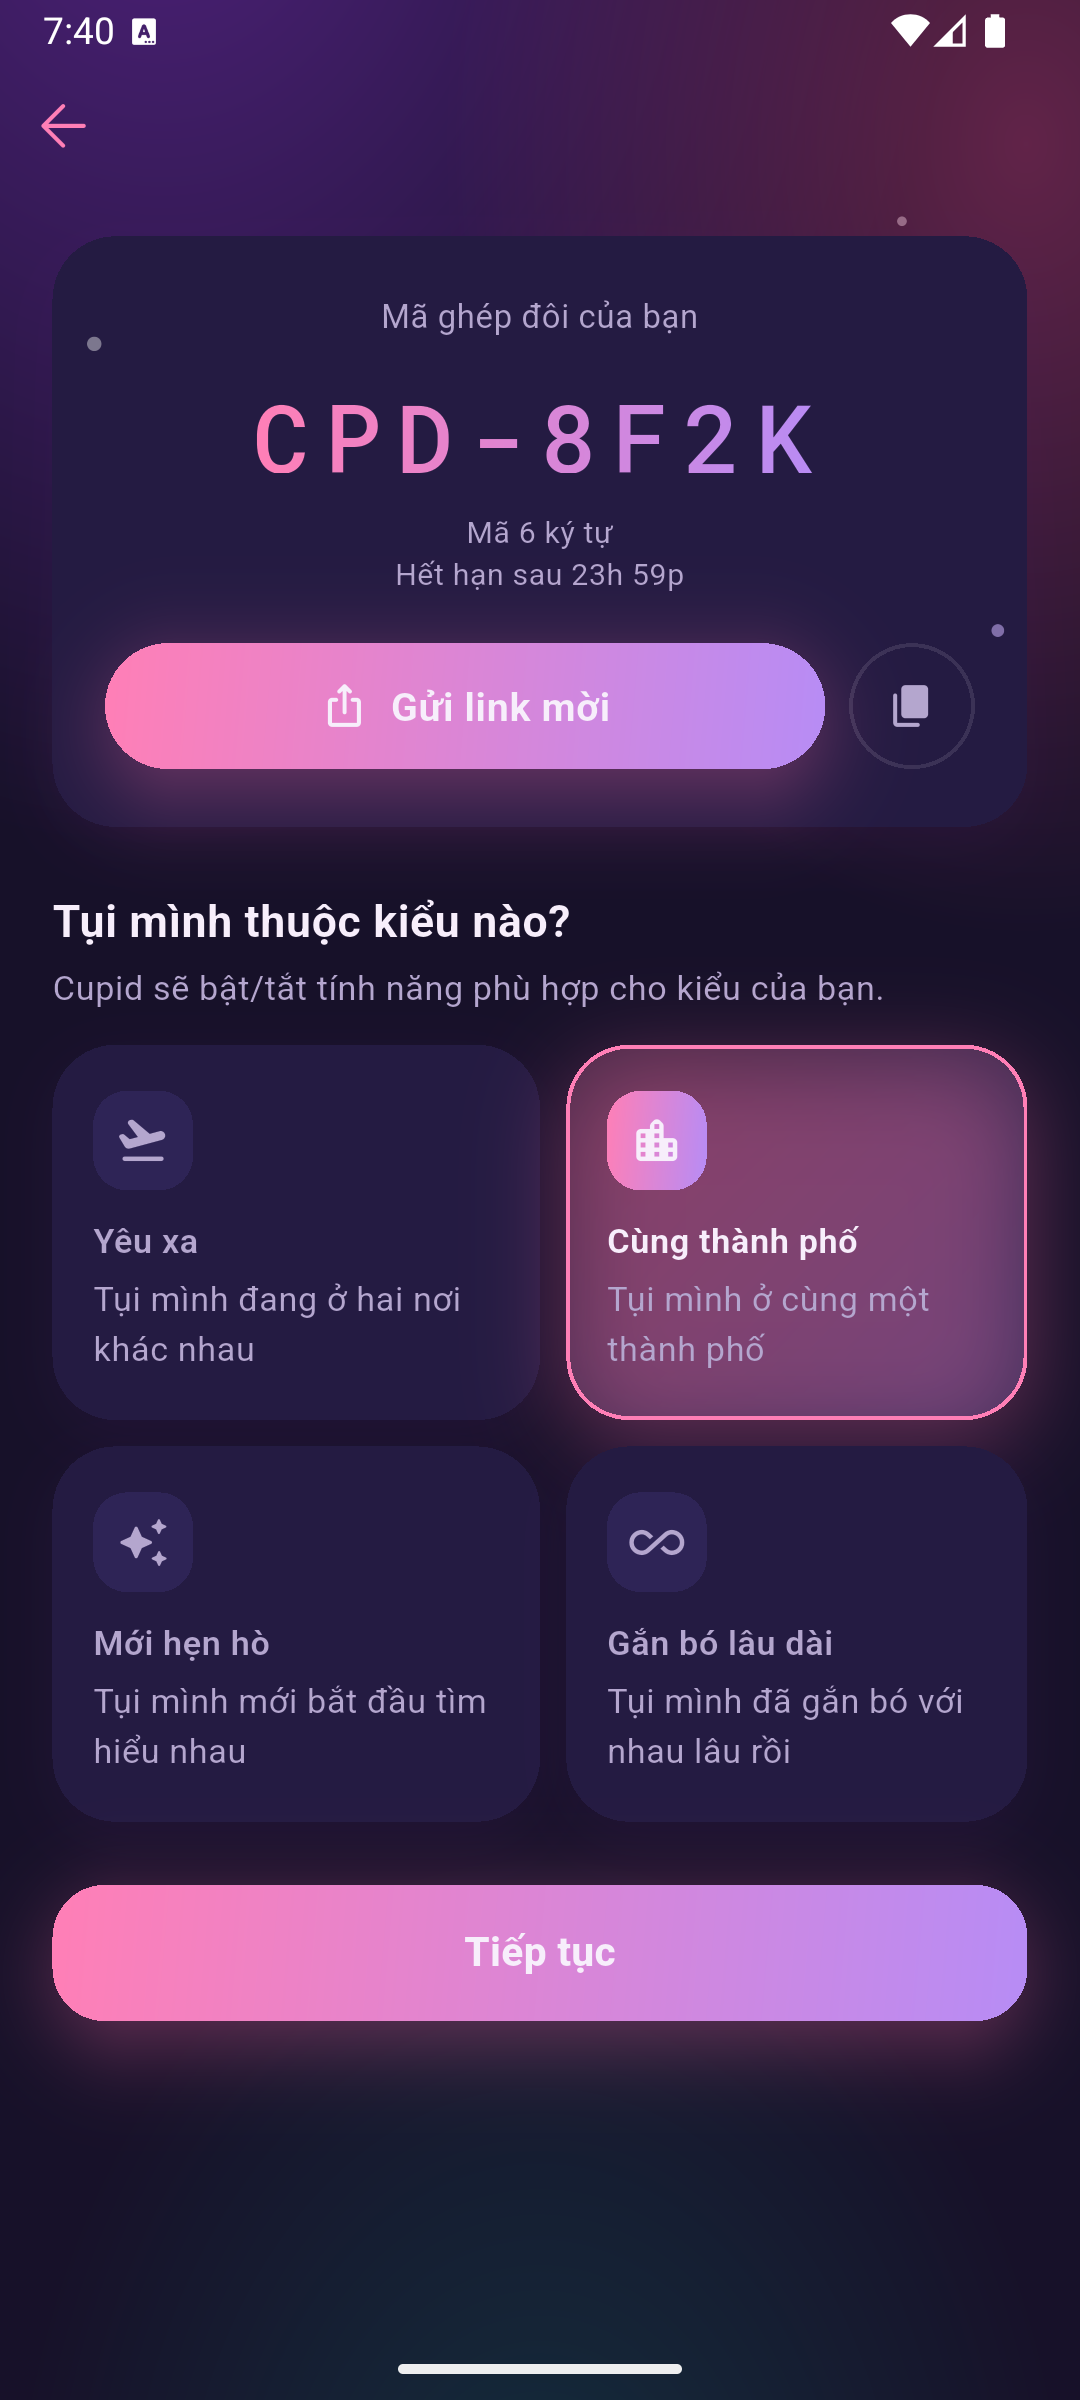
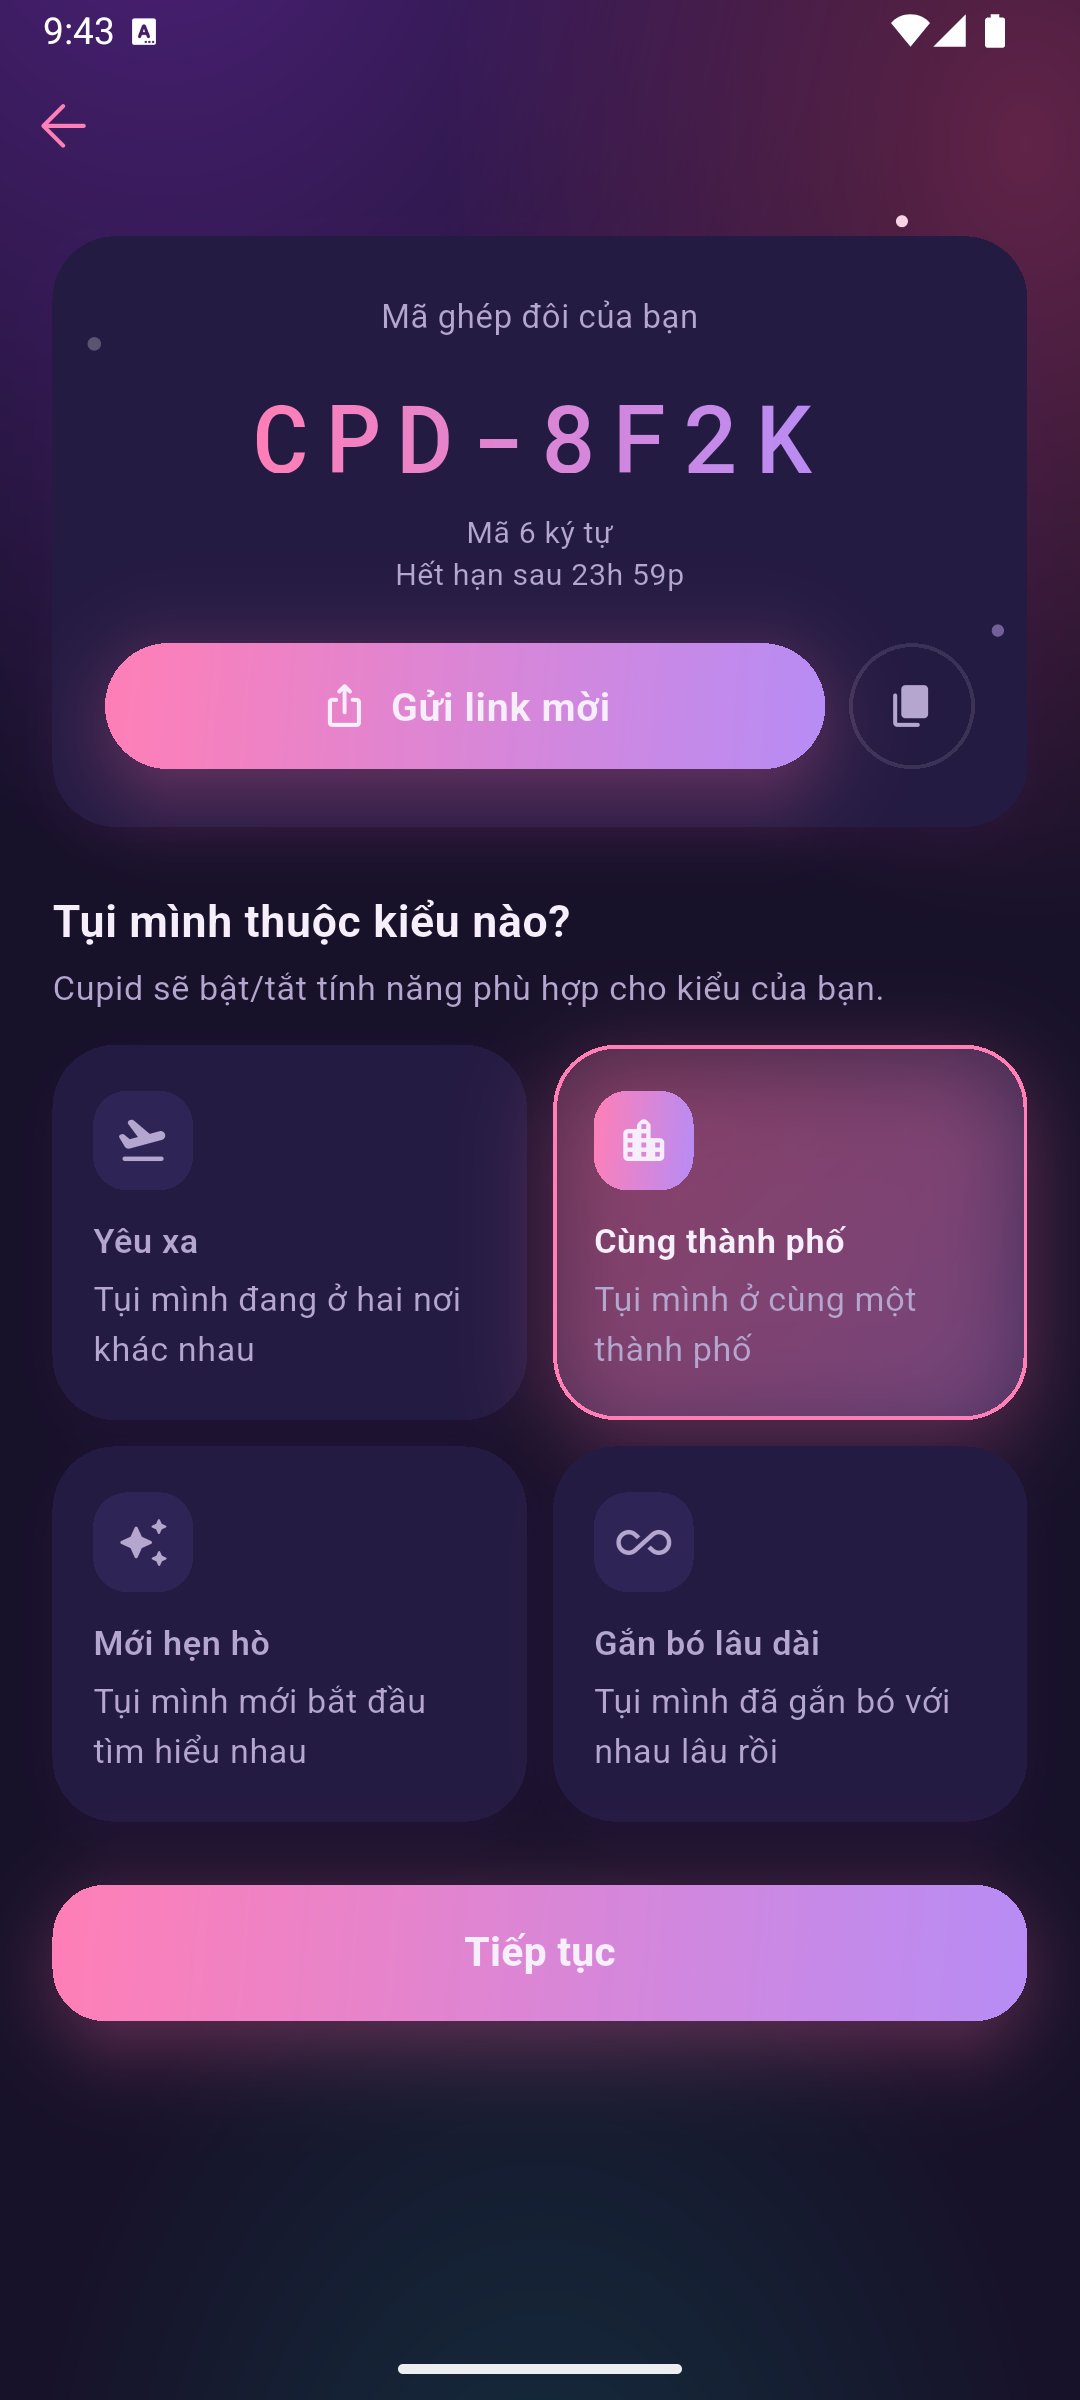
docs(REQ-009_invite_couple_type_and_pairing_navigation/STORY-001_invite_couple_type_picker): recapture device screenshot after D1 fix
Post-fix device recapture only; visual-fidelity-report.md verdict is
left untouched for a follow-up mobile-dev pixel-comparison pass.

diff --git a/data/requirements/REQ-009_invite_couple_type_and_pairing_navigation/STORY-001_invite_couple_type_picker/coding-plan/test-results.md b/data/requirements/REQ-009_invite_couple_type_and_pairing_navigation/STORY-001_invite_couple_type_picker/coding-plan/test-results.md
@@ -637,4 +637,38 @@ verdict-correction pass owns that update.
 
 - `mobile/lib/features/pairing/presentation/screens/invite_screen.dart`
 - `mobile/test/features/pairing/presentation/invite_screen_test.dart`
+
+## Post-fix device recapture (D1)
+
+DevOps recapture pass for the D1 grid-column-gutter fix landed in commit
+`dbaaf7b6b696122858c4c2725db83e9eb323cb25` on this story branch.
+
+Build command:
+
+```
+$ flutter build apk --debug -t lib/main_preview.dart --dart-define=PREVIEW=invite
+Running Gradle task 'assembleLocalDebug'...     12.7s
+✓ Built build/app/outputs/flutter-apk/app-local-debug.apk
+```
+
+Install target: `emulator-5554`, package `com.snapsofts.cupid`, installed via
+`adb install -r` — `Success`.
+
+Launch/boot confirmation: launched via `adb shell monkey -p com.snapsofts.cupid
+-c android.intent.category.LAUNCHER 1`. `adb shell dumpsys window` reported
+`mCurrentFocus=Window{... com.snapsofts.cupid/com.snapsofts.cupid_mobile.MainActivity}`
+after launch, confirming the app boots to and holds the invite couple-type
+picker screen (`PREVIEW=invite`) without crashing. `adb logcat -d "*:E"`
+filtered for `FATAL`/`AndroidRuntime` returned no matches.
+
+Screenshot captured: `adb exec-out screencap -p >
+visual-fidelity/implemented-invite-couple-type-android.png` (relative to this
+story's directory) — overwrote the prior pre-fix capture. Resulting image:
+1080x2400 PNG, "Cùng thành phố" card selected per the
+`fetchCoupleType: () async => 'SAME_CITY'` preview fixture.
+
+This pass captures only the raw device screenshot; it does not edit
+`visual-fidelity/visual-fidelity-report.md`'s verdict tables or the D1
+PASS/FAIL line — a follow-up mobile-dev pass owns the pixel comparison and
+verdict correction.
 - `data/requirements/REQ-009_invite_couple_type_and_pairing_navigation/STORY-001_invite_couple_type_picker/coding-plan/test-results.md`
